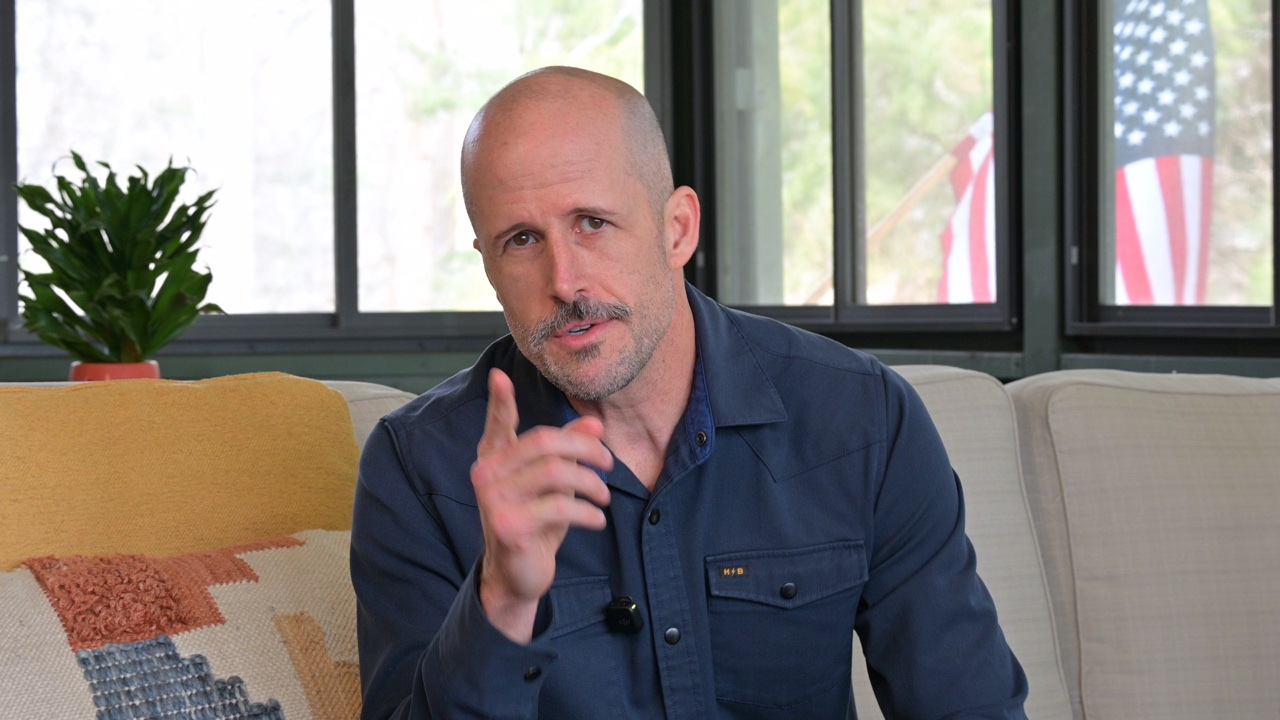
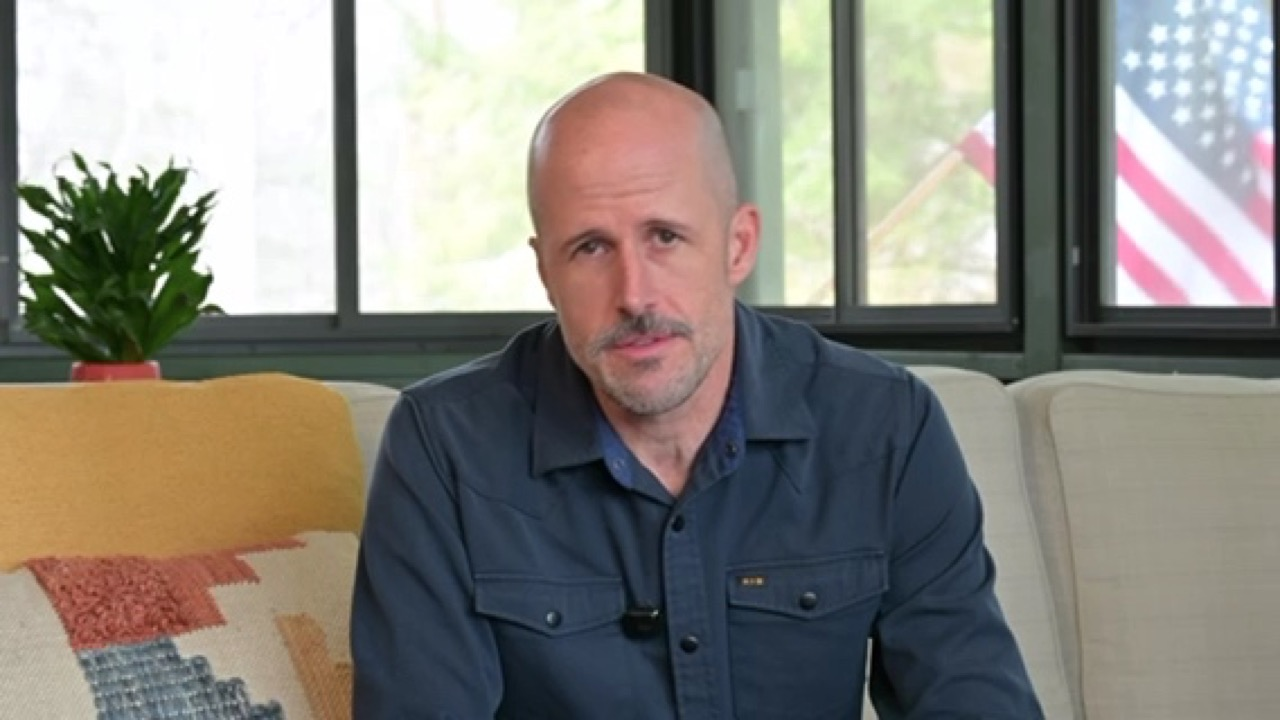
Make Iron Compass product-led and grounded

diff --git a/app/home.module.css b/app/home.module.css
@@ -50,13 +50,16 @@
 .lead { max-width:620px; margin:0; color:#d5ddd1; font-size:clamp(18px,1.55vw,22px); line-height:1.55; }
 .heroActions, .buttonRow { display:flex; flex-wrap:wrap; align-items:center; gap:24px; margin-top:36px; }
 .heroAssurance { margin:18px 0 0; color:#98aa9e; font-size:9px; font-weight:700; letter-spacing:.11em; line-height:1.5; text-transform:uppercase; }
-.heroPortrait { margin:0; position:relative; align-self:stretch; min-height:510px; overflow:hidden; background:#183526; border:1px solid rgba(245,240,230,.18); box-shadow:30px 34px 0 rgba(3,12,8,.22); }
-.heroPortrait::after { content:""; position:absolute; inset:0; background:linear-gradient(0deg,rgba(5,17,11,.86),transparent 43%),linear-gradient(90deg,rgba(5,17,11,.14),transparent 45%); pointer-events:none; }
-.heroPortrait img { width:100%; height:100%; position:absolute; inset:0; display:block; object-fit:cover; object-position:54% center; filter:saturate(.82) contrast(1.04); }
-.heroPortrait blockquote { max-width:330px; margin:0; position:absolute; z-index:1; left:29px; bottom:74px; color:var(--paper); font-family:Georgia,"Times New Roman",serif; font-size:clamp(22px,2.1vw,31px); letter-spacing:-.035em; line-height:1.08; }
-.heroPortrait figcaption { position:absolute; z-index:1; left:29px; right:29px; bottom:25px; display:flex; align-items:end; justify-content:space-between; gap:24px; color:#d7e0d7; }
-.heroPortrait figcaption strong { color:var(--gold); font-size:9px; letter-spacing:.15em; text-transform:uppercase; }
-.heroPortrait figcaption span { max-width:220px; color:#bac7bc; font-size:9px; line-height:1.35; text-align:right; }
+.heroMaterials { margin:0; position:relative; align-self:stretch; min-height:510px; overflow:hidden; background:linear-gradient(145deg,#173629,#0c2118); border:1px solid rgba(245,240,230,.18); box-shadow:30px 34px 0 rgba(3,12,8,.22); }
+.heroMaterials::before { content:""; position:absolute; inset:20px; border:1px solid rgba(205,164,91,.17); pointer-events:none; }
+.heroMaterialsFrame { position:absolute; inset:42px 34px 86px; }
+.heroMaterialsFrame img { position:absolute; display:block; object-fit:cover; filter:saturate(.84) contrast(1.03); box-shadow:0 24px 55px rgba(0,0,0,.33); }
+.heroFocusPreview { width:78%; right:0; top:5%; transform:rotate(1.4deg); }
+.heroMeetingPreview { width:31%; max-height:83%; left:0; bottom:0; object-fit:contain !important; background:#f8f3e8; transform:rotate(-3deg); }
+.heroCorePreview { width:58%; right:2%; bottom:0; transform:rotate(-1.2deg); }
+.heroMaterials figcaption { min-height:60px; padding:0 28px; position:absolute; left:0; right:0; bottom:0; display:flex; align-items:center; justify-content:space-between; gap:24px; color:#d7e0d7; background:rgba(5,17,11,.82); border-top:1px solid rgba(245,240,230,.14); }
+.heroMaterials figcaption strong { color:var(--gold); font-size:9px; letter-spacing:.15em; }
+.heroMaterials figcaption span { max-width:250px; color:#bac7bc; font-size:9px; line-height:1.35; text-align:right; }
 .heroFooter { min-height:88px; padding:0 clamp(24px,5.5vw,86px); display:grid; grid-template-columns:repeat(3,minmax(0,1fr)); align-items:center; color:#aebcb1; background:rgba(4,15,9,.52); border-top:1px solid rgba(245,240,230,.14); }
 .heroFooter span { min-height:36px; padding:0 clamp(12px,2.3vw,34px); display:flex; align-items:center; gap:10px; border-left:1px solid rgba(245,240,230,.14); font-size:9px; line-height:1.35; }
 .heroFooter span:first-child { padding-left:0; border-left:0; }
@@ -172,10 +175,13 @@
 .resourceCopy > p { max-width:600px; margin:0; color:var(--muted); font-size:16px; line-height:1.68; }
 .resourceCopy .quietDarkLink { margin-top:27px; }
 
-.founderSection { max-width:1320px; margin:0 auto; padding:clamp(88px,9.5vw,136px) clamp(24px,7vw,110px); display:grid; grid-template-columns:minmax(100px,.23fr) minmax(0,1.27fr); gap:clamp(43px,8vw,130px); color:var(--ink); }
-.founderMark { width:clamp(77px,8.2vw,112px); height:clamp(77px,8.2vw,112px); display:grid; place-items:center; color:#b48a40; border:1px solid rgba(180,138,64,.78); border-radius:50%; font-family:Georgia,"Times New Roman",serif; font-size:clamp(25px,2.2vw,35px); letter-spacing:-.06em; }
+.founderSection { max-width:1320px; margin:0 auto; padding:clamp(88px,9.5vw,136px) clamp(24px,7vw,110px); display:grid; grid-template-columns:minmax(260px,.6fr) minmax(0,1fr); align-items:center; gap:clamp(48px,8vw,130px); color:var(--ink); }
+.founderPhoto { margin:0; overflow:hidden; background:#183526; box-shadow:18px 20px 0 rgba(17,39,29,.1); }
+.founderPhoto img { width:100%; aspect-ratio:4 / 3; display:block; object-fit:cover; object-position:55% center; filter:saturate(.78) contrast(1.03); }
+.founderPhoto figcaption { padding:13px 16px; color:#d7dfd4; background:#11271d; font-size:9px; line-height:1.4; }
 .founderSection h2 { max-width:880px; margin:17px 0 34px; font-size:clamp(40px,4.8vw,69px); line-height:1.1; }
 .founderSection div > p:not(.eyebrow) { max-width:650px; margin:0; color:var(--muted); font-size:16px; line-height:1.65; }
+.founderSection div > p.founderPersonal { margin-top:18px; font-size:14px; }
 .founderSection .quietDarkLink { margin-top:28px; }
 
 .closing { min-height:520px; padding:94px 24px; display:grid; justify-items:center; align-content:center; position:relative; isolation:isolate; overflow:hidden; color:var(--paper); background:linear-gradient(119deg,#0a1d15,#173529); text-align:center; }
@@ -194,7 +200,7 @@
 @media (max-width:1060px) {
   .heroInner { grid-template-columns:1fr; }
   .heroContent { max-width:820px; }
-  .heroPortrait { width:min(100%,720px); min-height:470px; }
+  .heroMaterials { width:min(100%,720px); min-height:470px; }
   .orientation, .systemIntro, .startSection, .methodSection, .resourceSection, .founderSection { grid-template-columns:1fr; }
   .orientation, .systemIntro, .startSection, .methodSection, .resourceSection, .founderSection { gap:42px; }
   .movementHeader, .workHeader { grid-template-columns:1fr; }
@@ -220,9 +226,9 @@
   .lead { font-size:17px; }
   .heroActions, .buttonRow { align-items:stretch; flex-direction:column; gap:15px; margin-top:30px; }
   .primaryButton { width:100%; }
-  .heroPortrait { min-height:430px; box-shadow:18px 20px 0 rgba(3,12,8,.22); }
-  .heroPortrait blockquote { left:20px; bottom:70px; }
-  .heroPortrait figcaption { left:20px; right:20px; }
+  .heroMaterials { min-height:430px; box-shadow:18px 20px 0 rgba(3,12,8,.22); }
+  .heroMaterialsFrame { inset:34px 24px 82px; }
+  .heroMaterials figcaption { padding:0 20px; }
   .heroFooter { min-height:0; padding:18px 20px; grid-template-columns:1fr 1fr; gap:0; }
   .heroFooter span { min-height:46px; padding:0 12px; }
   .heroFooter span:nth-child(3) { grid-column:1 / -1; padding-left:0; border-left:0; border-top:1px solid rgba(245,240,230,.14); }

diff --git a/app/page.tsx b/app/page.tsx
@@ -75,15 +75,18 @@ export default function Home() {
             <h1>Be here for<br /><em>your own life.</em></h1>
             <p className={styles.lead}>Iron Compass gives you short, practical ways to reclaim your attention, carry pressure better, and become more present at home.</p>
             <div className={styles.heroActions}>
-              <Link className={styles.primaryButton} href="/sunday-board#get-board">Start free with the Sunday Board <span>→</span></Link>
+              <Link className={styles.primaryButton} href="/sunday-board#get-board">Start the Sunday Board Meeting <span>→</span></Link>
               <Link className={styles.quietLightLink} href="/field-guide">Find my starting point <span>→</span></Link>
             </div>
             <p className={styles.heroAssurance}>Free 15-minute meeting guide · Opens immediately</p>
           </div>
-          <figure className={styles.heroPortrait}>
-            <img src="/assets/core-bridge-poster.jpg" alt="Chris Avera speaking from his living room" width="1280" height="720" fetchPriority="high" decoding="async" />
-            <blockquote>“I built this because I needed it first.”</blockquote>
-            <figcaption><strong>Chris Avera</strong><span>Husband, father, and founder of Iron Compass</span></figcaption>
+          <figure className={styles.heroMaterials}>
+            <div className={styles.heroMaterialsFrame}>
+              <img className={styles.heroFocusPreview} src="/assets/focus-manual-gamma.png" alt="Focus Protocol visual Field Manual" width="2400" height="1260" fetchPriority="high" decoding="async" />
+              <img className={styles.heroMeetingPreview} src="/assets/sunday-board-gamma.png" alt="Sunday Board Meeting printable guide" width="2400" height="3106" fetchPriority="high" decoding="async" />
+              <img className={styles.heroCorePreview} src="/assets/thermostat-gamma.png" alt="Iron Compass Core visual lesson" width="2400" height="1260" fetchPriority="high" decoding="async" />
+            </div>
+            <figcaption><strong>THE ACTUAL WORK</strong><span>Printable guide, visual Field Manual, and Core lesson</span></figcaption>
           </figure>
         </div>
         <div className={styles.heroFooter} aria-label="What Iron Compass includes">
@@ -223,11 +226,15 @@ export default function Home() {
       </section>
 
       <section className={styles.founderSection}>
-        <div className={styles.founderMark}>CA</div>
+        <figure className={styles.founderPhoto}>
+          <img src="/assets/core-bridge-poster.jpg" alt="Chris Avera at home in North Carolina" width="1280" height="720" loading="lazy" decoding="async" />
+          <figcaption>Chris Avera · Husband, father, and small-business owner</figcaption>
+        </figure>
         <div>
-          <p className={styles.eyebrow}>FROM CHRIS</p>
-          <h2>I made this for the part of life you cannot get <em>back.</em></h2>
-          <p>I am not standing outside of this work. I am a husband and father who knows what it is like to be physically present while my attention is somewhere else. Iron Compass came out of my own effort to come back, stay in the room, and take better care of the people I love.</p>
+          <p className={styles.eyebrow}>WHY I MADE THIS</p>
+          <h2>I needed the work before I ever <em>shared it.</em></h2>
+          <p>I’m Chris. I’m a husband, father of three, and small-business owner in the North Carolina mountains. Iron Compass began when I noticed how often I was physically home while my attention was somewhere else. I built these practices for myself first, then shaped the useful parts into tools another man could actually use.</p>
+          <p className={styles.founderPersonal}>Away from work, I lift kettlebells, ride mountain-bike trails, fish, and take my Trail 125 down the roads that get quieter as they get smaller. I am still practicing this work too.</p>
           <Link className={styles.quietDarkLink} href="/about">Read Chris’s story <span>→</span></Link>
         </div>
       </section>

diff --git a/app/about/page.tsx b/app/about/page.tsx
@@ -27,8 +27,11 @@ export default function AboutChris() {
       <section className={styles.story}>
         <p className={styles.eyebrow}>THE SHORT VERSION</p>
         <div>
-          <p className={styles.lead}>I’m Chris. Husband to Rhea. Father to Isabella, Austin, and Zoe. I run my own companies from a small mountain town in North Carolina.</p>
+          <p className={styles.lead}>I’m Chris. Husband to Rhea. Father to Isabella, Austin, and Zoe. I run small businesses from a mountain town in North Carolina.</p>
           <p>For about twelve years, I drifted. I was in the house but not really there, always half a thought somewhere else, usually behind a screen. I found my way back to my family and back to my faith, and this is the work I am sharing: coming back, staying present, and being the man my people actually need in the room.</p>
+          <p>I have been interested in leadership for a long time, partly because I grew up watching my dad coach business owners and leaders. Iron Compass starts with a simple idea: leadership is not only what happens at work. It is also what you do with your attention, pressure, and presence in the rooms where people know you best.</p>
+          <p>I do not have a clinical title to lend this work, and I am not going to invent one. My responsibility is to show you what is inside, be honest about its limits, and make every practice useful in an ordinary week.</p>
+          <p className={styles.personalNote}>When I am not working, I am usually lifting kettlebells, riding a mountain-bike trail, fishing, or taking my Trail 125 somewhere the road gets smaller.</p>
         </div>
       </section>
 
@@ -54,6 +57,7 @@ export default function AboutChris() {
             <div className={styles.letterBody}>
               <p>I am not standing outside of this work. I am a husband and father who knows what it is like to be physically present while my attention is somewhere else. Iron Compass came out of my own effort to come back, stay in the room, and take better care of the people I love.</p>
               <p>Some of it began as writing about faith, family, and the quiet work of returning. The useful parts became named practices you can actually try. Nothing here asks you to become a project. It asks you to notice what matters and show up for it.</p>
+              <p>This is practical educational work, not therapy, medical care, or a claim that I have life solved. If the work cannot be explained plainly or used honestly, it does not belong here.</p>
               <span className={styles.signature}>Chris</span>
             </div>
           </div>

diff --git a/app/policies/page.tsx b/app/policies/page.tsx
@@ -37,7 +37,7 @@ export default function Policies() {
           <section id="privacy">
             <p>02 · PRIVACY</p>
             <h2>The information this site uses</h2>
-            <p>When you request the Sunday Board, your email address is collected so the printable and five related follow-up emails can be delivered. MailerLite processes those subscriptions, and every marketing email includes an unsubscribe option.</p>
+            <p>When you request the Sunday Board Meeting guide, your email address is collected so the printable and five related follow-up emails can be delivered. MailerLite processes those subscriptions, and every marketing email includes an unsubscribe option.</p>
             <p>Purchases are processed through MailerLite and Stripe. Iron Compass may receive the contact and transaction details needed to deliver the product, provide support, and handle refunds. Iron Compass does not receive your full payment-card number.</p>
             <p>The contact form is provided through Google. When you use it, Google and Iron Compass receive the information you choose to submit. The site may also generate ordinary technical logs through its hosting providers. Iron Compass does not sell personal information.</p>
             <p>You may ask to review or delete the personal information Iron Compass controls by using the contact form. Some transaction records may need to be retained for accounting, fraud prevention, or legal obligations.</p>

diff --git a/app/focus/focus.module.css b/app/focus/focus.module.css
@@ -10,6 +10,8 @@
 .problem { padding:100px clamp(24px,8vw,128px); display:grid; grid-template-columns:.55fr 1.45fr; gap:70px; background:#f3eee3; }
 .problem h2,.videoSection h2,.insideHeading h2,.fit h2,.purchase h2 { margin:0 0 28px; color:#183027; font-family:Georgia,"Times New Roman",serif; font-size:clamp(42px,5vw,72px); font-weight:400; letter-spacing:-.045em; line-height:1; text-wrap:balance; overflow-wrap:break-word; }
 .problem > div > p { max-width:760px; margin:0; color:#53645b; font-size:16px; line-height:1.8; }
+.problem > div > p.drivingNote { margin-top:28px; padding:21px 0 0 24px; border-top:1px solid rgba(24,48,39,.2); border-left:3px solid #a64e37; color:#43574d; }
+.drivingNote strong { display:block; margin-bottom:6px; color:#183027; font-family:Georgia,"Times New Roman",serif; font-size:20px; font-weight:400; line-height:1.35; }
 .videoSection { padding:104px clamp(24px,7vw,110px); display:grid; grid-template-columns:.68fr 1.32fr; align-items:center; gap:clamp(50px,7vw,105px); color:#e9eee6; background:#173128; }
 .videoSection h2 { color:#f4efe4; }
 .videoSection > div:first-child > p:last-child { max-width:520px; color:#bdc9bf; line-height:1.75; }

diff --git a/app/components.tsx b/app/components.tsx
@@ -12,7 +12,7 @@ export function Header() {
       <nav aria-label="Main navigation"><Link href="/field-guide">Compass Check</Link><Link href="/focus">Focus Protocol</Link><Link href="/library">Iron Compass Core</Link><Link href="/resources">Resources</Link></nav>
       <Link className="topbar-action" href="/sunday-board#get-board">Start free <span>→</span></Link>
     </header>
-    <nav className="mobile-nav" aria-label="Mobile navigation"><Link href="/sunday-board">Sunday Board</Link><Link href="/field-guide">Compass Check</Link><Link href="/focus">Focus Protocol</Link><Link href="/library">Core</Link><Link href="/resources">Resources</Link></nav>
+    <nav className="mobile-nav" aria-label="Mobile navigation"><Link href="/sunday-board">Sunday Meeting</Link><Link href="/field-guide">Compass Check</Link><Link href="/focus">Focus Protocol</Link><Link href="/library">Core</Link><Link href="/resources">Resources</Link></nav>
   </>;
 }
 

diff --git a/app/about/about.module.css b/app/about/about.module.css
@@ -48,6 +48,8 @@
 .story div { max-width: 760px; }
 .story .lead { margin: 0 0 32px; color: var(--ink); font-family: Georgia, "Times New Roman", serif; font-size: clamp(31px, 3.55vw, 54px); letter-spacing: -.05em; line-height: 1.08; }
 .story div > p:not(.lead) { max-width: 650px; margin: 0; color: var(--muted); font-size: clamp(17px, 1.45vw, 20px); line-height: 1.66; }
+.story div > p:not(.lead) + p { margin-top: 24px; }
+.story div > p.personalNote { color: #7b5b3f; font-size: 15px; }
 
 .notes { padding: clamp(85px, 10vw, 140px) clamp(24px, 7vw, 110px); display: grid; grid-template-columns: minmax(130px, .34fr) minmax(0, 1.2fr); gap: clamp(48px, 9vw, 158px); color: var(--ink); background: var(--sage); }
 .sectionNumber { margin: 4px 0 0; color: var(--rust); font-size: 11px; font-weight: 700; letter-spacing: .18em; }

diff --git a/app/focus/page.tsx b/app/focus/page.tsx
@@ -70,6 +70,7 @@ export default function FocusProtocol() {
         <div>
           <h2>You can be home<br />and still be <em>somewhere else.</em></h2>
           <p>Work, notifications, feeds, and the reflex to check one more thing can follow you through the door. Focus does not ask you to reject technology or rebuild your life. It gives you four concrete moves to interrupt that reflex and practice being where your feet are.</p>
+          <p className={styles.drivingNote}><strong>The reflex does not know when the stakes have changed.</strong> The same downward glance that steals a moment on the couch can follow us to a red light or a moving car. This is not about scolding people. It is about taking back the decision of where your eyes and attention go.</p>
         </div>
       </section>
 
